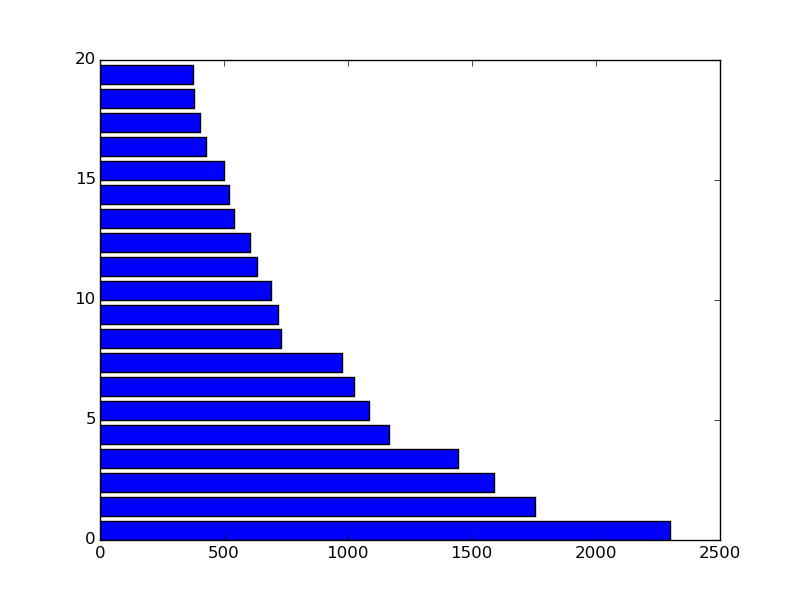
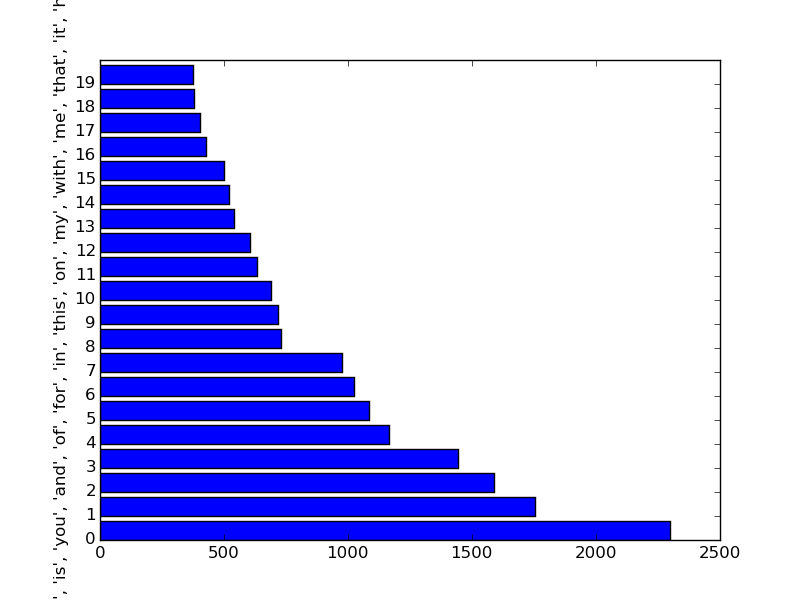
plot udpated

diff --git a/exercise_2/barplot.py b/exercise_2/barplot.py
@@ -11,11 +11,13 @@ cur = conn.cursor()
 cur.execute("SELECT word, count FROM tweetwordcount order by count DESC limit 20")
 records = cur.fetchall()
 print len(records)
-x_val = [a for a in range(0,len(records))]
-x = [rec[0] for rec in records]
-y = [rec[1] for rec in records]
+bar_val = [a for a in range(0,len(records))]
+bar_labels = [rec[0] for rec in records]
+bar_length = [rec[1] for rec in records]
 
-plt.barh(x_val,y)
+plt.barh(bar_val, bar_length)
+plt.yticks(bar_val)
+plt.ylabel(bar_labels)
 plt.savefig('barplot.png')
 conn.commit()
 conn.close()
